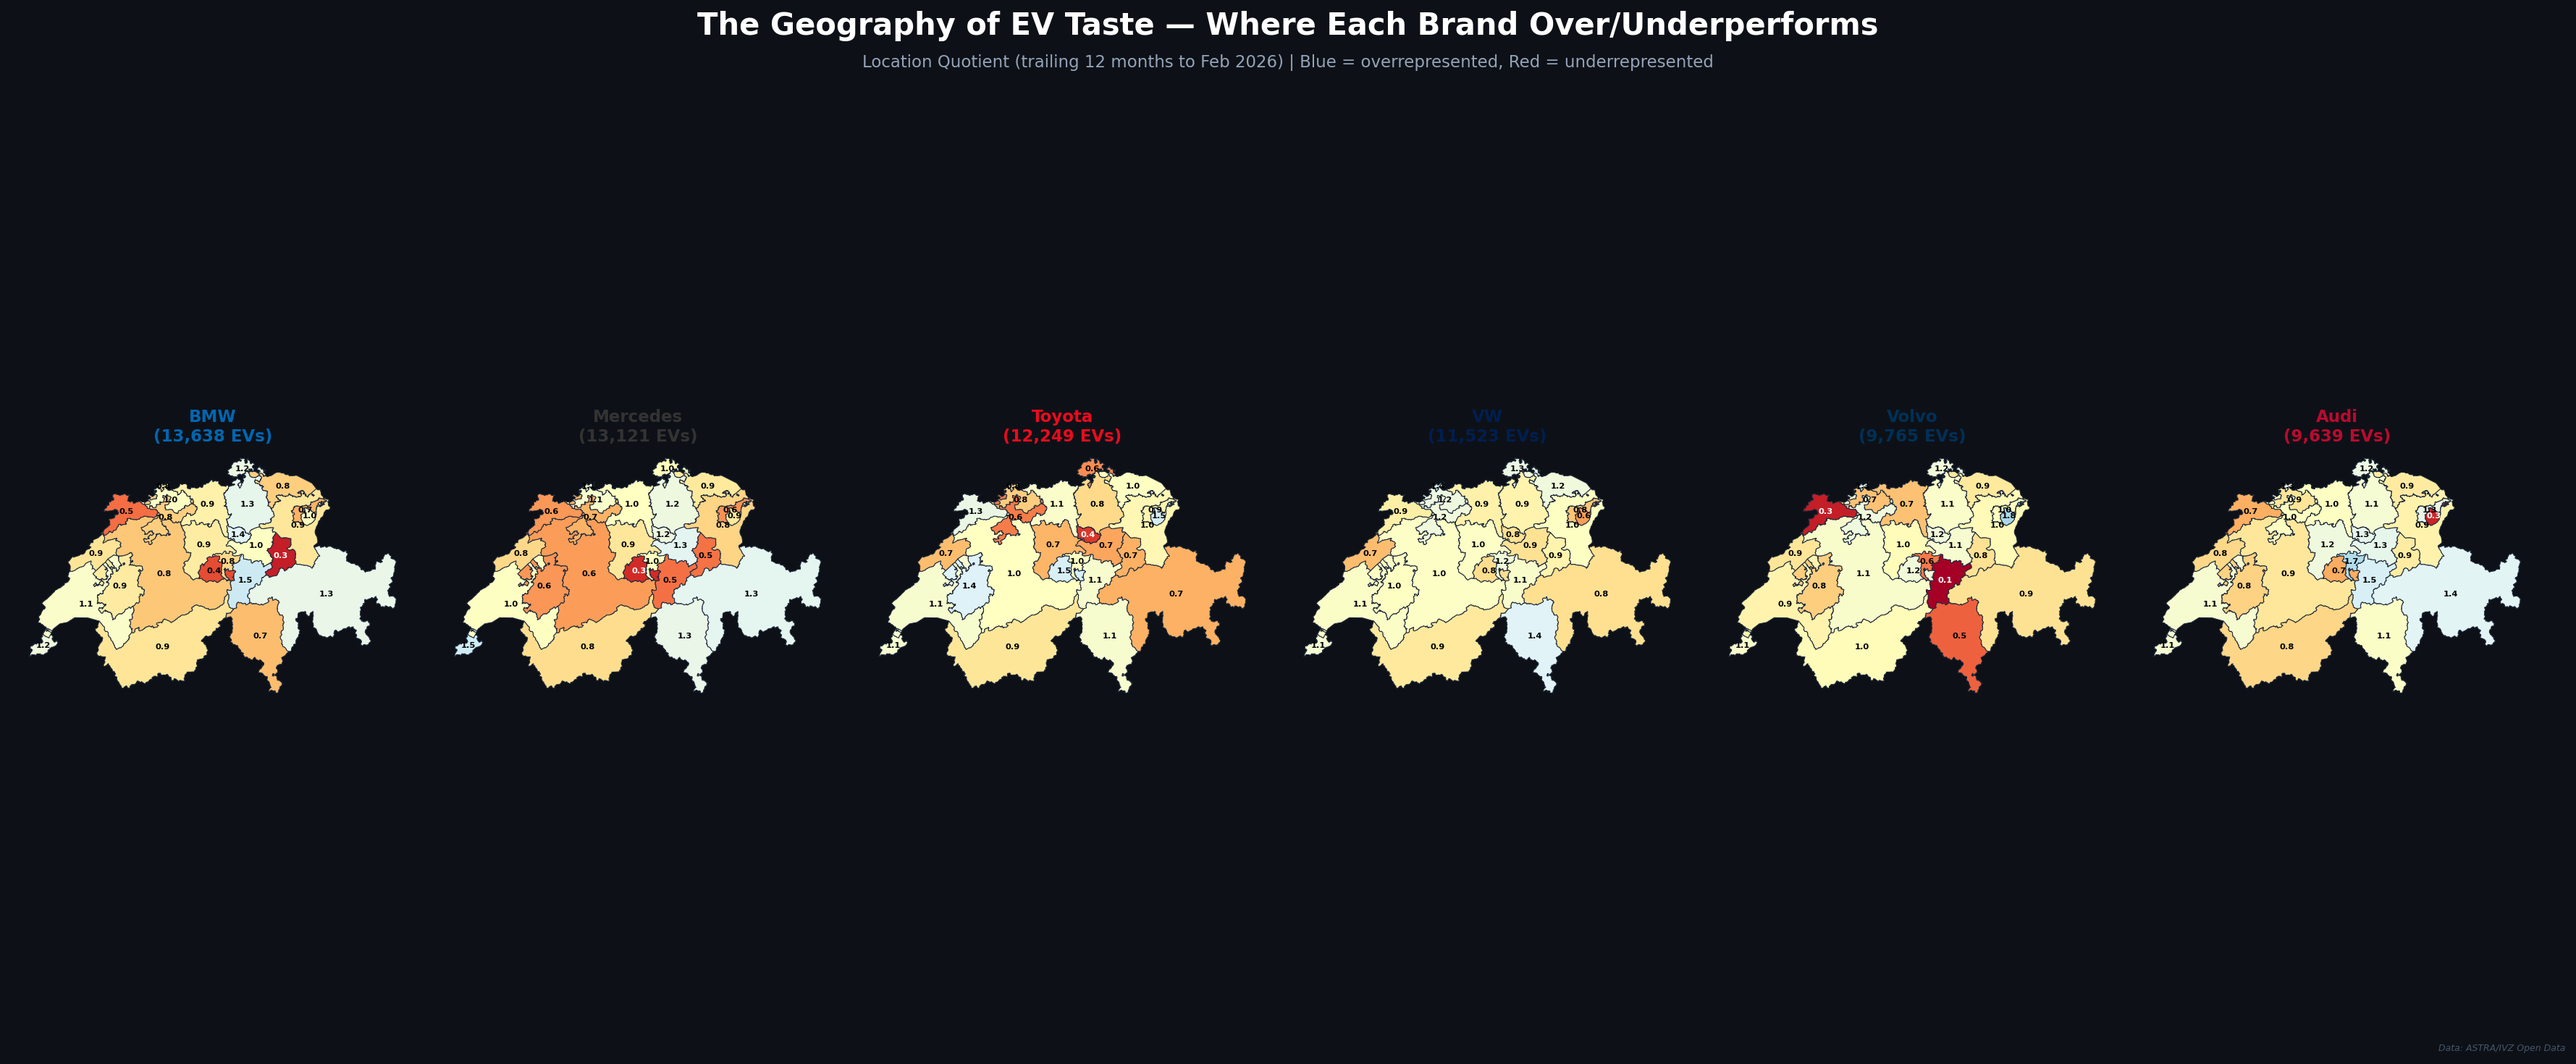
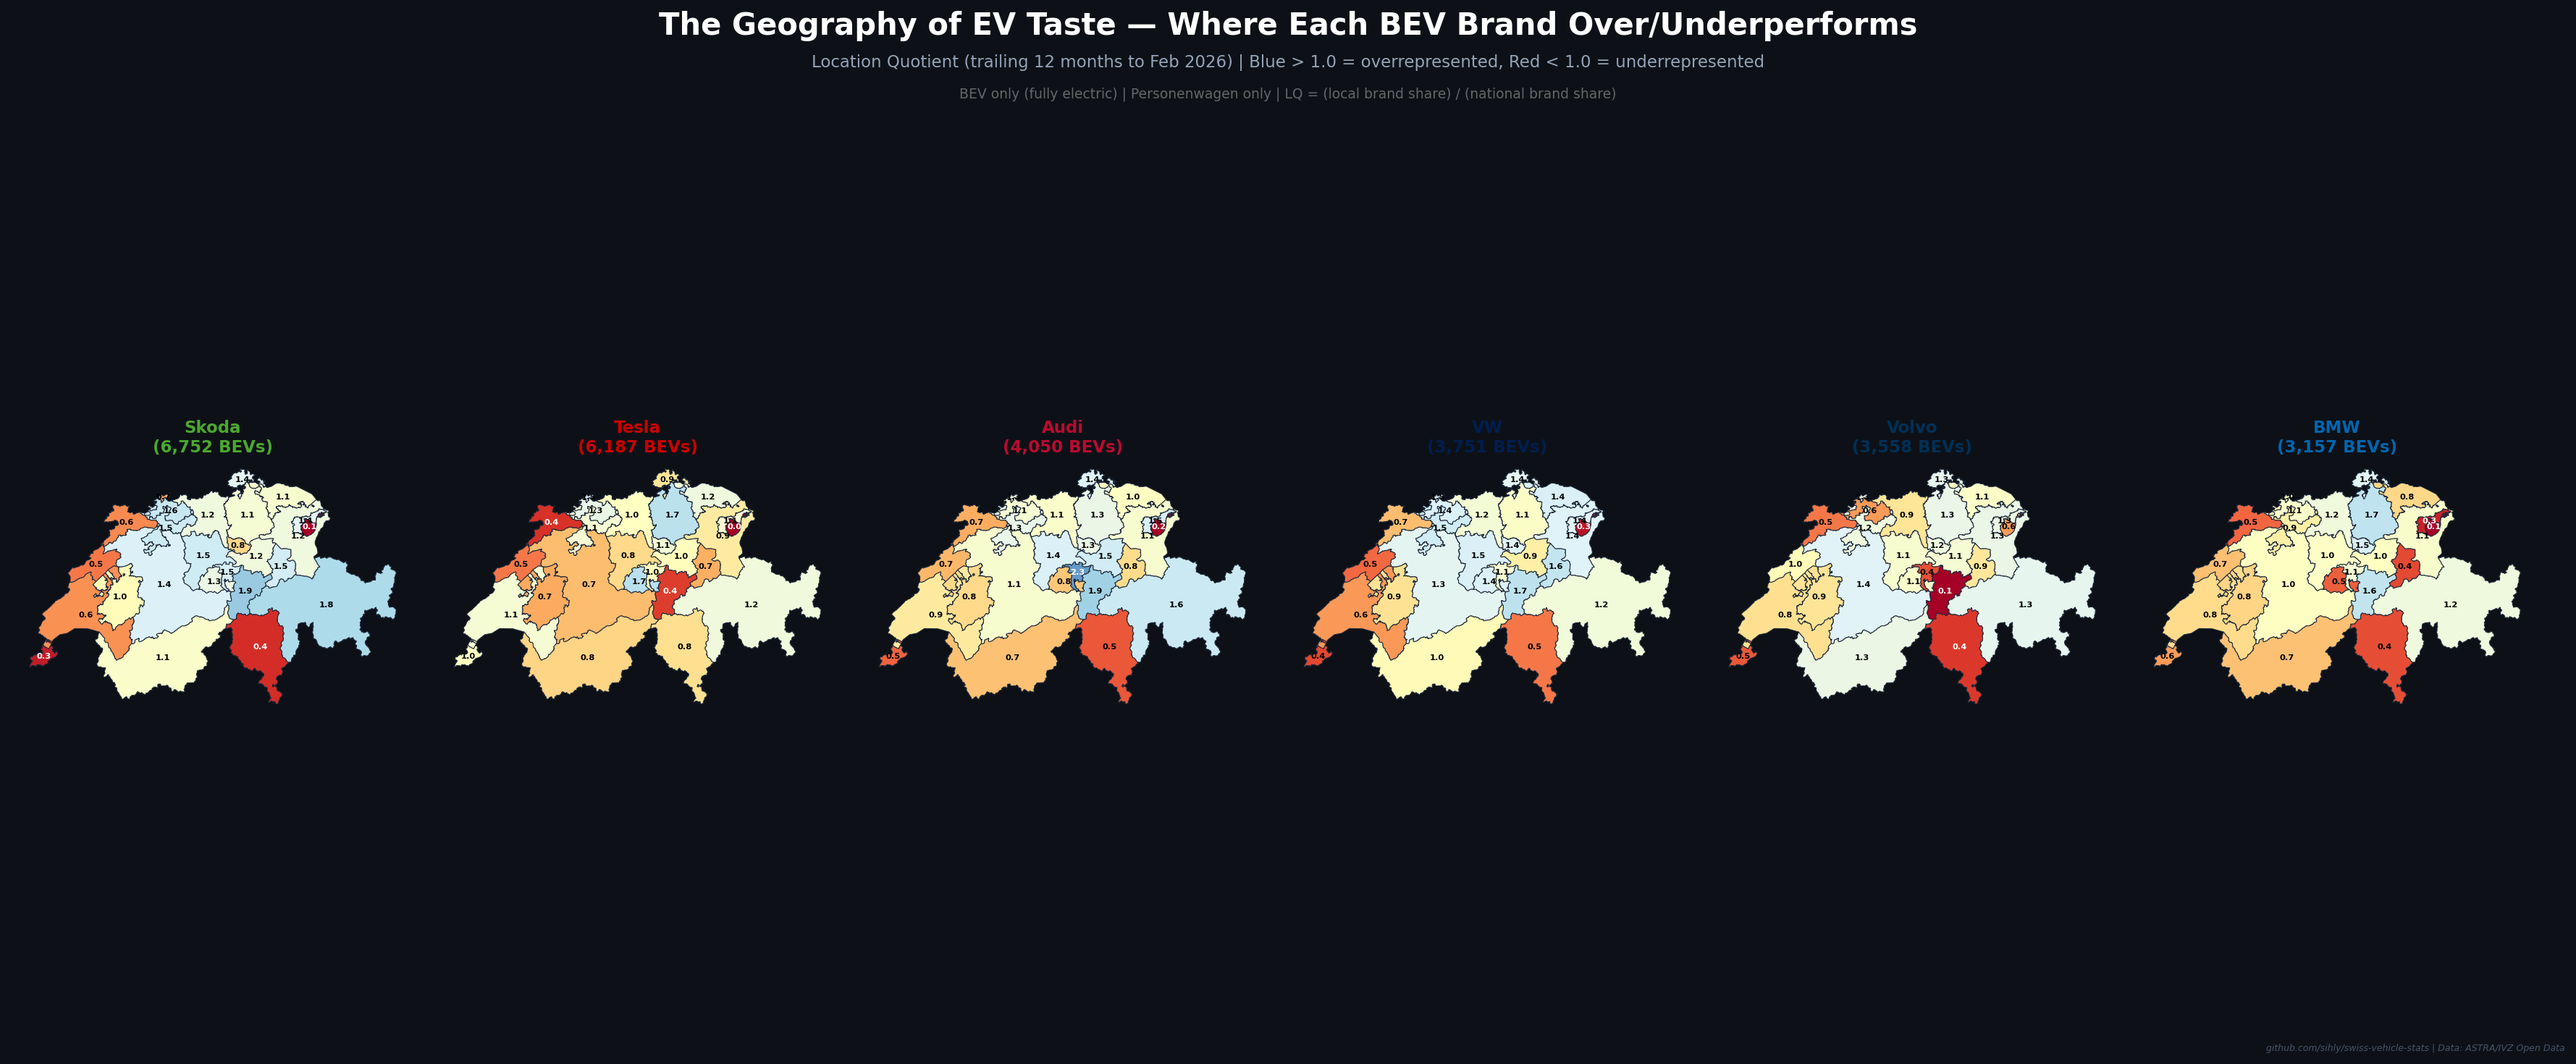
refactor: address PR #3 review comments
- Remove 10 charts (origin, colors, drive type, mercedes heatmaps,
  LQ comparison, leaders/laggards, tipping points, 5-metrics)
- Fix EV wave bug: trailing_sum lambda closure was broken, showed 0%
  for 2016-2018 when actual EV share was 4-6%
- Fix EV race: BEV only (was BEV+PHEV, inflating Mercedes/BMW/Toyota)
- Fix EV taste LQ: add Tesla, add definitions, add github link
- Fix wave layout: separate date/title/definition rows, no overlap
- Add Definitions section to README (Personenwagen, EV, BEV)
- Add clarification to yearly registrations title
- Strip chart.py to 3 core charts (yearly, powertrain, brand rankings)
- All charts include github.com/sihly/swiss-vehicle-stats attribution

diff --git a/scripts/chart.py b/scripts/chart.py
@@ -96,7 +96,7 @@ def chart_yearly_registrations():
                     textcoords="offset points", xytext=(0, 12),
                     ha="center", fontsize=8, fontweight="bold")
 
-    style_chart(ax, "New Passenger Car Registrations in Switzerland", ylabel="Registrations")
+    style_chart(ax, "New Passenger Car Registrations in Switzerland\n(Fahrzeugart = Personenwagen)", ylabel="Registrations")
     ax.yaxis.set_major_formatter(mticker.FuncFormatter(lambda x, _: f"{x:,.0f}"))
     ax.set_xlim(yearly["year"].min() - 0.5, yearly["year"].max() + 0.5)
     add_attribution(fig)
@@ -144,10 +144,7 @@ def chart_brand_rankings():
     df = pd.read_csv(path)
     df = df[df["year"] >= 2016]
 
-    # Get top 10 brands by total volume across all years
     top_brands = df.groupby("brand")["count"].sum().nlargest(10).index.tolist()
-
-    # Calculate rank per year
     ranked = df[df["brand"].isin(top_brands)].copy()
     ranked["rank"] = ranked.groupby("year")["count"].rank(ascending=False, method="min")
 
@@ -158,7 +155,6 @@ def chart_brand_rankings():
         color = COLORS[i % len(COLORS)]
         ax.plot(brand_data["year"], brand_data["rank"], marker="o", linewidth=2.5,
                 label=brand, color=color, markersize=7, zorder=3)
-        # Label last point
         if not brand_data.empty:
             last = brand_data.iloc[-1]
             ax.annotate(brand, (last["year"], last["rank"]),
@@ -176,249 +172,6 @@ def chart_brand_rankings():
     save_chart(fig, "03_brand_rankings")
 
 
-def chart_origin_over_time():
-    """Manufacturer origin share over time (stacked area)."""
-    path = DATA_DIR / "brand_by_year.csv"
-    if not path.exists():
-        print("  Skip: origin over time (no data)")
-        return
-
-    # Need to map brands to origins using mappings
-    import yaml
-    with open(ROOT / "mappings.yaml") as f:
-        mappings = yaml.safe_load(f)
-
-    brand_origin = mappings.get("brand_origin", {})
-    country_continent = mappings.get("country_continent", {})
-
-    df = pd.read_csv(path)
-    df = df[df["year"] >= 2016]
-
-    # Map brand to country
-    def get_origin(brand):
-        b = str(brand).strip().upper()
-        for key, val in brand_origin.items():
-            if str(key).upper() == b:
-                return val
-        return "Other"
-
-    df["country"] = df["brand"].apply(get_origin)
-
-    # Aggregate by year + country
-    by_country = df.groupby(["year", "country"])["count"].sum().reset_index()
-
-    # Get top countries by total volume
-    top_countries = by_country.groupby("country")["count"].sum().nlargest(8).index.tolist()
-    by_country.loc[~by_country["country"].isin(top_countries), "country"] = "Other"
-    by_country = by_country.groupby(["year", "country"])["count"].sum().reset_index()
-
-    # Calculate share
-    totals = by_country.groupby("year")["count"].sum()
-    pivot = by_country.pivot(index="year", columns="country", values="count").fillna(0)
-    pct = pivot.div(totals, axis=0) * 100
-
-    # Order by average share
-    order = pct.mean().sort_values(ascending=False).index.tolist()
-    pct = pct[order]
-
-    country_colors = {
-        "Germany": "#1a1a1a", "Japan": "#dc2626", "France": "#2563eb",
-        "South Korea": "#16a34a", "USA": "#f59e0b", "UK": "#8b5cf6",
-        "Czech Republic": "#ec4899", "Italy": "#f97316", "China": "#e11d48",
-        "Romania": "#14b8a6", "Sweden": "#6366f1", "Spain": "#84cc16",
-        "India": "#06b6d4", "Other": "#d1d5db",
-    }
-
-    fig, ax = plt.subplots(figsize=FIGSIZE)
-    ax.stackplot(pct.index, *[pct[c] for c in pct.columns],
-                 labels=pct.columns,
-                 colors=[country_colors.get(c, "#999") for c in pct.columns],
-                 alpha=0.85)
-
-    style_chart(ax, "Market Share by Manufacturer Origin", ylabel="Share (%)")
-    ax.set_ylim(0, 100)
-    ax.legend(loc="center left", bbox_to_anchor=(1.02, 0.5), fontsize=9, frameon=False)
-    ax.set_xlabel("")
-    add_attribution(fig)
-    save_chart(fig, "04_origin_over_time")
-
-
-def chart_colors_over_time():
-    """Color distribution over time (stacked area)."""
-    # Need to process from brand_by_year equivalent but for colors
-    # We have color_totals but not color_by_year — check if we have the monthly data
-    # Actually we need to re-derive this. For now use what we have.
-    # Let's check if we can build from the processed data
-    path = DATA_DIR / "color_totals.csv"
-    if not path.exists():
-        print("  Skip: colors (no data)")
-        return
-
-    # We only have totals, not by year. Show as horizontal bar for now,
-    # and add a TODO for color_by_year in process.py
-    df = pd.read_csv(path)
-    df = df[df["color"] != "Other"]
-    total = df["count"].sum()
-    df["pct"] = df["count"] / total * 100
-
-    color_map = {
-        "Grey": "#808080", "White": "#d4d4d4", "Black": "#1a1a1a",
-        "Blue": "#2563eb", "Red": "#dc2626", "Green": "#16a34a",
-        "Yellow": "#eab308", "Orange": "#f97316", "Brown": "#8B4513",
-        "Silver": "#c0c0c0", "Beige": "#d4a574", "Purple": "#8b5cf6",
-        "Multicolor": "#ff69b4", "Gold": "#daa520",
-    }
-
-    fig, ax = plt.subplots(figsize=FIGSIZE)
-    bars = ax.barh(df["color"][::-1], df["pct"][::-1],
-                   color=[color_map.get(c, "#999") for c in df["color"][::-1]],
-                   height=0.7, edgecolor="white", linewidth=0.5)
-
-    for bar, val in zip(bars, df["pct"][::-1]):
-        ax.text(bar.get_width() + 0.3, bar.get_y() + bar.get_height() / 2,
-                f"{val:.1f}%", ha="left", va="center", fontsize=9)
-
-    style_chart(ax, "Vehicle Color Distribution (2016-present)", xlabel="Share (%)")
-    add_attribution(fig)
-    save_chart(fig, "05_colors")
-
-
-def chart_drive_type():
-    """AWD vs FWD vs RWD share over time."""
-    path = DATA_DIR / "drive_by_month.csv"
-    if not path.exists():
-        print("  Skip: drive type (no data)")
-        return
-
-    df = pd.read_csv(path)
-    yearly = df.groupby(["year", "drive"])["count"].sum().reset_index()
-    yearly = yearly[yearly["year"] >= 2016]
-
-    pivot = yearly.pivot(index="year", columns="drive", values="count").fillna(0)
-    pct = pivot.div(pivot.sum(axis=1), axis=0) * 100
-
-    drive_colors = {"AWD": "#2563eb", "FWD": "#f59e0b", "RWD": "#dc2626", "Other": "#d1d5db"}
-    order = [c for c in ["AWD", "FWD", "RWD", "Other"] if c in pct.columns]
-
-    fig, ax = plt.subplots(figsize=FIGSIZE)
-    ax.stackplot(pct.index, *[pct[c] for c in order],
-                 labels=order,
-                 colors=[drive_colors.get(c, "#999") for c in order],
-                 alpha=0.85)
-
-    style_chart(ax, "Drive Type Share Over Time", ylabel="Share (%)")
-    ax.set_ylim(0, 100)
-    ax.legend(loc="upper right", fontsize=10, frameon=False)
-    ax.set_xlabel("")
-    add_attribution(fig)
-    save_chart(fig, "06_drive_type")
-
-
-def chart_canton_heatmap():
-    """[Experimental] Geographic heatmap of registrations by canton.
-
-    Currently hardcoded to Mercedes-Benz, last 3 months of available data.
-    Requires geopandas and data/ch-cantons.geojson.
-    """
-    geojson_path = ROOT / "data" / "ch-cantons.geojson"
-    if not geojson_path.exists():
-        print("  Skip: canton heatmap (no ch-cantons.geojson)")
-        return
-
-    try:
-        import geopandas as gpd
-        import matplotlib.colors as mcolors
-    except ImportError:
-        print("  Skip: canton heatmap (geopandas not installed)")
-        return
-
-    # Find the two most recent raw files to cover ~3 months
-    raw_dir = ROOT / "data" / "raw"
-    if not raw_dir.exists():
-        print("  Skip: canton heatmap (no raw data)")
-        return
-
-    raw_files = sorted(raw_dir.glob("NEUZU*.txt"))
-    if not raw_files:
-        print("  Skip: canton heatmap (no raw files)")
-        return
-
-    # Load last 2 files (current year + previous year archive)
-    cols = ["Fahrzeugart", "Marke", "Erstinverkehrsetzung_Kanton",
-            "Erstinverkehrsetzung_Jahr", "Erstinverkehrsetzung_Monat"]
-    dfs = []
-    for f in raw_files[-2:]:
-        available = []
-        with open(f, "r", encoding="utf-8", errors="replace") as fh:
-            header = [c.strip() for c in fh.readline().split("\t")]
-        available = [c for c in cols if c in header]
-        if len(available) < len(cols):
-            continue
-        df = pd.read_csv(f, sep="\t", usecols=available, dtype=str)
-        dfs.append(df)
-
-    if not dfs:
-        print("  Skip: canton heatmap (could not read raw files)")
-        return
-
-    df = pd.concat(dfs, ignore_index=True)
-    df = df[df["Fahrzeugart"].str.contains("Personenwagen", case=False, na=False)]
-    df = df[df["Marke"].str.contains("MERCEDES", case=False, na=False)]
-    df["year"] = pd.to_numeric(df["Erstinverkehrsetzung_Jahr"], errors="coerce")
-    df["month"] = pd.to_numeric(df["Erstinverkehrsetzung_Monat"], errors="coerce")
-
-    # Find last 3 months in data
-    df["ym"] = df["year"] * 100 + df["month"]
-    last_3 = sorted(df["ym"].dropna().unique())[-3:]
-    recent = df[df["ym"].isin(last_3)]
-
-    if recent.empty:
-        print("  Skip: canton heatmap (no recent data)")
-        return
-
-    # Determine date range for title
-    months = sorted(recent[["year", "month"]].drop_duplicates().values.tolist())
-    month_names = {1:"Jan",2:"Feb",3:"Mar",4:"Apr",5:"May",6:"Jun",
-                   7:"Jul",8:"Aug",9:"Sep",10:"Oct",11:"Nov",12:"Dec"}
-    date_range = f"{month_names.get(int(months[0][1]))} {int(months[0][0])} - {month_names.get(int(months[-1][1]))} {int(months[-1][0])}"
-
-    # Count by canton
-    by_canton = recent.groupby("Erstinverkehrsetzung_Kanton").size().reset_index(name="count")
-    by_canton.columns = ["canton", "count"]
-
-    # Load geodata and merge
-    cantons = gpd.read_file(geojson_path)
-    merged = cantons.merge(by_canton, left_on="id", right_on="canton", how="left")
-    merged["count"] = merged["count"].fillna(0)
-
-    # Plot
-    fig, ax = plt.subplots(figsize=(14, 10))
-    vmax = merged["count"].max()
-    norm = mcolors.Normalize(vmin=0, vmax=vmax)
-    cmap = plt.cm.YlOrRd
-
-    merged.plot(column="count", ax=ax, cmap=cmap, edgecolor="white",
-                linewidth=1.2, legend=False, norm=norm)
-
-    for _, row in merged.iterrows():
-        centroid = row.geometry.centroid
-        label = f"{row['id']}\n{int(row['count'])}"
-        ax.annotate(label, (centroid.x, centroid.y), ha="center", va="center",
-                    fontsize=8, fontweight="bold",
-                    color="white" if row["count"] > vmax * 0.5 else "black")
-
-    sm = plt.cm.ScalarMappable(cmap=cmap, norm=norm)
-    sm.set_array([])
-    cbar = fig.colorbar(sm, ax=ax, shrink=0.6, pad=0.02)
-    cbar.set_label("New Registrations", fontsize=11)
-
-    ax.set_title(f"Mercedes-Benz New Registrations by Canton\n{date_range}",
-                 fontsize=16, fontweight="bold", pad=15)
-    ax.set_axis_off()
-    add_attribution(fig)
-    save_chart(fig, "07_mercedes_canton_heatmap")
-
-
 def main():
     print("=== Generating Charts ===\n")
 
@@ -429,10 +182,6 @@ def main():
     chart_yearly_registrations()
     chart_powertrain_absolute()
     chart_brand_rankings()
-    chart_origin_over_time()
-    chart_colors_over_time()
-    chart_drive_type()
-    chart_canton_heatmap()
 
     print("\nDone.")
 

diff --git a/README.md b/README.md
@@ -6,13 +6,19 @@ Automated analytics dashboard for Swiss new vehicle registrations, built from [A
 
 A GitHub Actions pipeline downloads raw registration data monthly, aggregates it, generates charts, and produces a delta report with MoM, YoY, and YTD comparisons.
 
+## Definitions
+
+- **Scope:** `Fahrzeugart = Personenwagen` only (passenger cars). Excludes vans (Lieferwagen), trucks (Lastwagen), motorcycles (Motorrad), buses, tractors, and all other vehicle types.
+- **EV:** BEV + PHEV + FCEV (Treibstoff: Elektrisch, Benzin/Elektrisch, Wasserstoff/Elektrisch, Elektrisch mit RE)
+- **BEV:** Fully electric only (Treibstoff: Elektrisch, Elektrisch mit RE)
+
 ---
 
 ## Dashboard
 
 ### New Registrations Trend
 
-Total passenger car registrations per year since 2016. The COVID-19 impact in 2020 is clearly visible, with the market not yet recovering to pre-pandemic levels.
+Total passenger car (Personenwagen) registrations per year since 2016. The COVID-19 impact in 2020 is clearly visible, with the market not yet recovering to pre-pandemic levels.
 
 ![Yearly Registrations](charts/01_yearly_registrations.png)
 
@@ -28,29 +34,27 @@ Position changes of the top 10 brands. Watch for brands climbing or falling thro
 
 ![Brand Rankings](charts/03_brand_rankings.png)
 
-### Manufacturer Origin
+---
 
-Market share by country of origin over time. Shows the evolution of German, Japanese, South Korean, and emerging Chinese manufacturer presence in Switzerland.
+## EV Analytics
 
-![Origin Over Time](charts/04_origin_over_time.png)
+### The EV Wave
 
-### Vehicle Colors
+BEV + PHEV share of new passenger car registrations by canton, animated from Jan 2016 to Feb 2026. Shows the electrification wave spreading across Switzerland.
 
-Color distribution across all registrations since 2016. Grey, white, and black dominate — accounting for over 75% of all new cars.
+![EV Wave](charts/ev_wave.gif)
 
-![Colors](charts/05_colors.png)
+### The BEV Race
 
-### Drive Type (AWD/FWD/RWD)
+Top 10 fully electric (BEV only) brands by trailing 12-month registrations. Watch Tesla's explosive rise and the competitive response.
 
-Switzerland's preference for all-wheel drive, likely driven by alpine geography and weather conditions.
+![EV Race](charts/ev_race.gif)
 
-![Drive Type](charts/06_drive_type.png)
+### Geography of EV Taste
 
-### Geographic Distribution (Experimental)
+Location Quotient for top 6 BEV brands — where each brand over/underperforms vs the national average. LQ > 1.0 means overrepresented in that canton.
 
-Mercedes-Benz new registrations by canton for the most recent 3 months. An experiment in GIS-based charting -- to be extended to other brands and time ranges.
-
-![Mercedes Canton Heatmap](charts/07_mercedes_canton_heatmap.png)
+![EV Taste](charts/ev_taste_lq.png)
 
 ---
 
